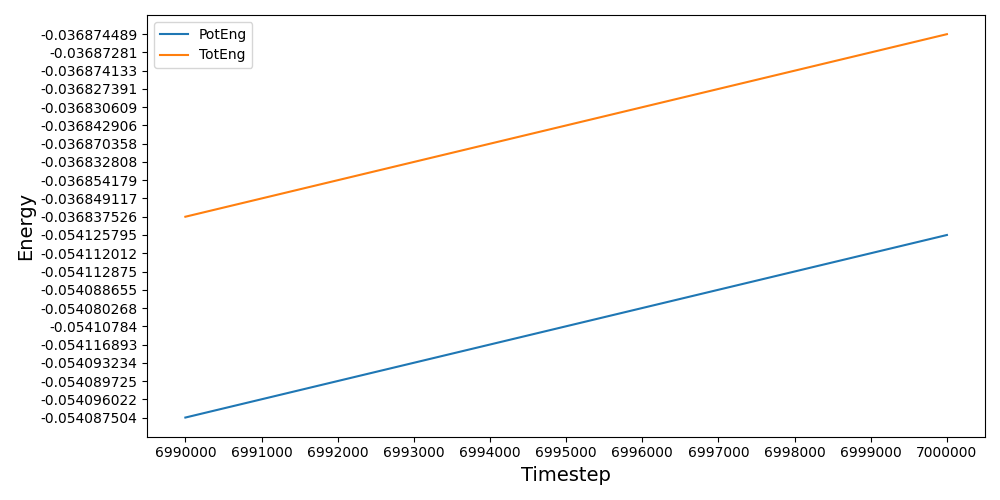
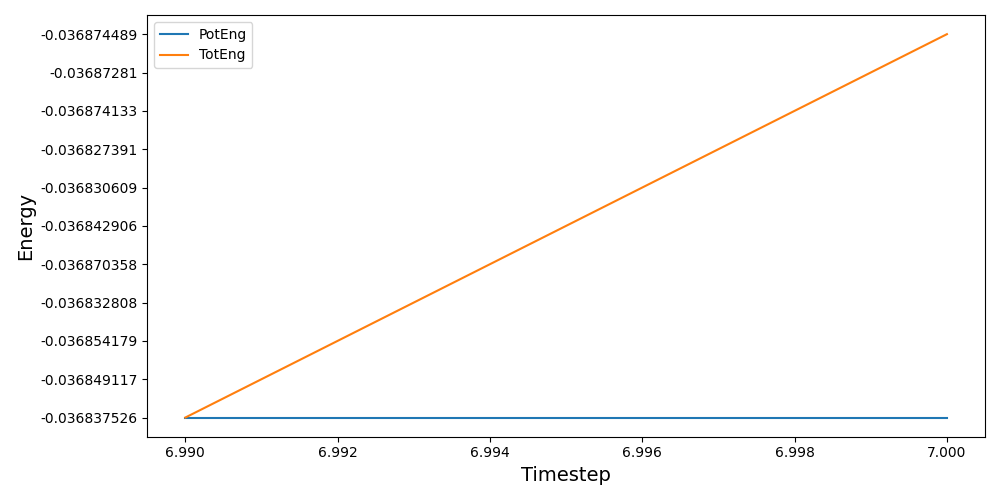
LogPlot major revision

diff --git a/logplot.py b/logplot.py
@@ -1,9 +1,7 @@
-import matplotlib.pyplot as plt
-import numpy as np
 import argparse
 import pandas as pd
-
-import pandas as pd
+import matplotlib.pyplot as plt
+import numpy as np
 
 def parse_data_segments(filename, columns):
     segments = []
@@ -11,34 +9,28 @@ def parse_data_segments(filename, columns):
         buffer = []
         headers = None
         collecting = False
-        line_counter = 0  # To help identify the exact line being processed
 
         for line in file:
-            line_counter += 1
             parts = ' '.join(line.strip().split()).split()
-            
-            if all(col in parts for col in columns):  # Header line check
+
+            if all(col in parts for col in columns):
                 header_map = {col: parts.index(col) for col in columns}
                 headers = parts
                 collecting = True
-                #print(f"Starting data collection at line {line_counter}: {line.strip()}")
                 continue
 
             if collecting:
                 if (len(parts) == len(headers) and all(is_float(part) for part in parts)):
-                    selected_data = [parts[header_map[col]] for col in columns]
+                    selected_data = [float(parts[header_map[col]]) for col in columns]
                     buffer.append(selected_data)
                 else:
-                    #print(f"Non-data line or format mismatch at line {line_counter}: {line.strip()}")
                     if buffer:
                         segments.append(pd.DataFrame(buffer, columns=columns))
-                        #print(f"Ending data collection at line {line_counter}: {line.strip()} with {len(buffer)} rows collected")
                         buffer = []
                     collecting = False
 
         if buffer:
             segments.append(pd.DataFrame(buffer, columns=columns))
-            print(f"Ending data collection at EOF with {len(buffer)} rows collected")
 
     return segments
 
@@ -49,26 +41,35 @@ def is_float(element):
     except ValueError:
         return False
 
+def apply_operations(data, operations):
+    local_context = data.to_dict('series')
+    local_context['np'] = np
 
+    for operation in operations:
+        lhs, rhs = operation.split('=')
+        lhs = lhs.strip()
+        rhs = rhs.strip()
+
+        try:
+            data[lhs] = eval(rhs, {"__builtins__": None}, local_context)
+        except Exception as e:
+            print(f"Error evaluating expression '{rhs}': {e}")
+
+    return data
 
 def main():
     parser = argparse.ArgumentParser(description='Plot data segments from a log file with flexible instance selection.')
     parser.add_argument('filename', type=str, help='Path to the data file')
-    parser.add_argument('--instance', type=str, default='first', help='Instance to plot: "first", "last" or a number (1-based)')
+    parser.add_argument('--instance', type=str, default='first', help='Instance to plot: "first", "last", or a number (1-based)')
     parser.add_argument('--columns', nargs='+', help='Column names to plot as x y. First one is x-axis, followed by one or more y-axis columns.')
+    parser.add_argument('--operations', nargs='+', help='Math operations to apply on columns, e.g., "new_col=x1+x2"')
     parser.add_argument('--xlabel', type=str, default='X-axis', help='Label for the x-axis')
     parser.add_argument('--ylabel', type=str, default='Y-axis', help='Label for the y-axis')
     parser.add_argument('--legends', type=str, help='List of legends as a string (e.g., \'["Curve 1", "Curve 2"]\')')
     parser.add_argument('--logscale', action='store_true', help='Set log scale for the y-axis')
     parser.add_argument('--outfile', type=str, default='plot.png', help='Output file for the plot (default: plot.png)')
-
     args = parser.parse_args()
 
-    if not args.columns:
-        print("Error: No columns specified for plotting.")
-        return
-
-    # Extract data segments
     segments = parse_data_segments(args.filename, args.columns)
     print(f"Total data segments found: {len(segments)}")
 
@@ -76,7 +77,6 @@ def main():
         print("No valid data segments found.")
         return
 
-    # Determine which instance to plot
     if args.instance.isdigit():
         instance_index = int(args.instance) - 1
     elif args.instance == 'first':
@@ -93,8 +93,10 @@ def main():
 
     data = segments[instance_index]
 
-    fig, ax = plt.subplots(figsize=(10, 5))
+    if args.operations:
+        data = apply_operations(data, args.operations)
 
+    fig, ax = plt.subplots(figsize=(10, 5))
     x_data = data[args.columns[0]]
     for y_col in args.columns[1:]:
         ax.plot(x_data, data[y_col], label=y_col if len(args.columns[1:]) > 1 else "Data")
@@ -106,8 +108,9 @@ def main():
 
     ax.legend()
     plt.tight_layout()
-    plt.savefig(args.outfile)   
+    plt.savefig(args.outfile)
     plt.show()
+
 if __name__ == "__main__":
     main()
 
